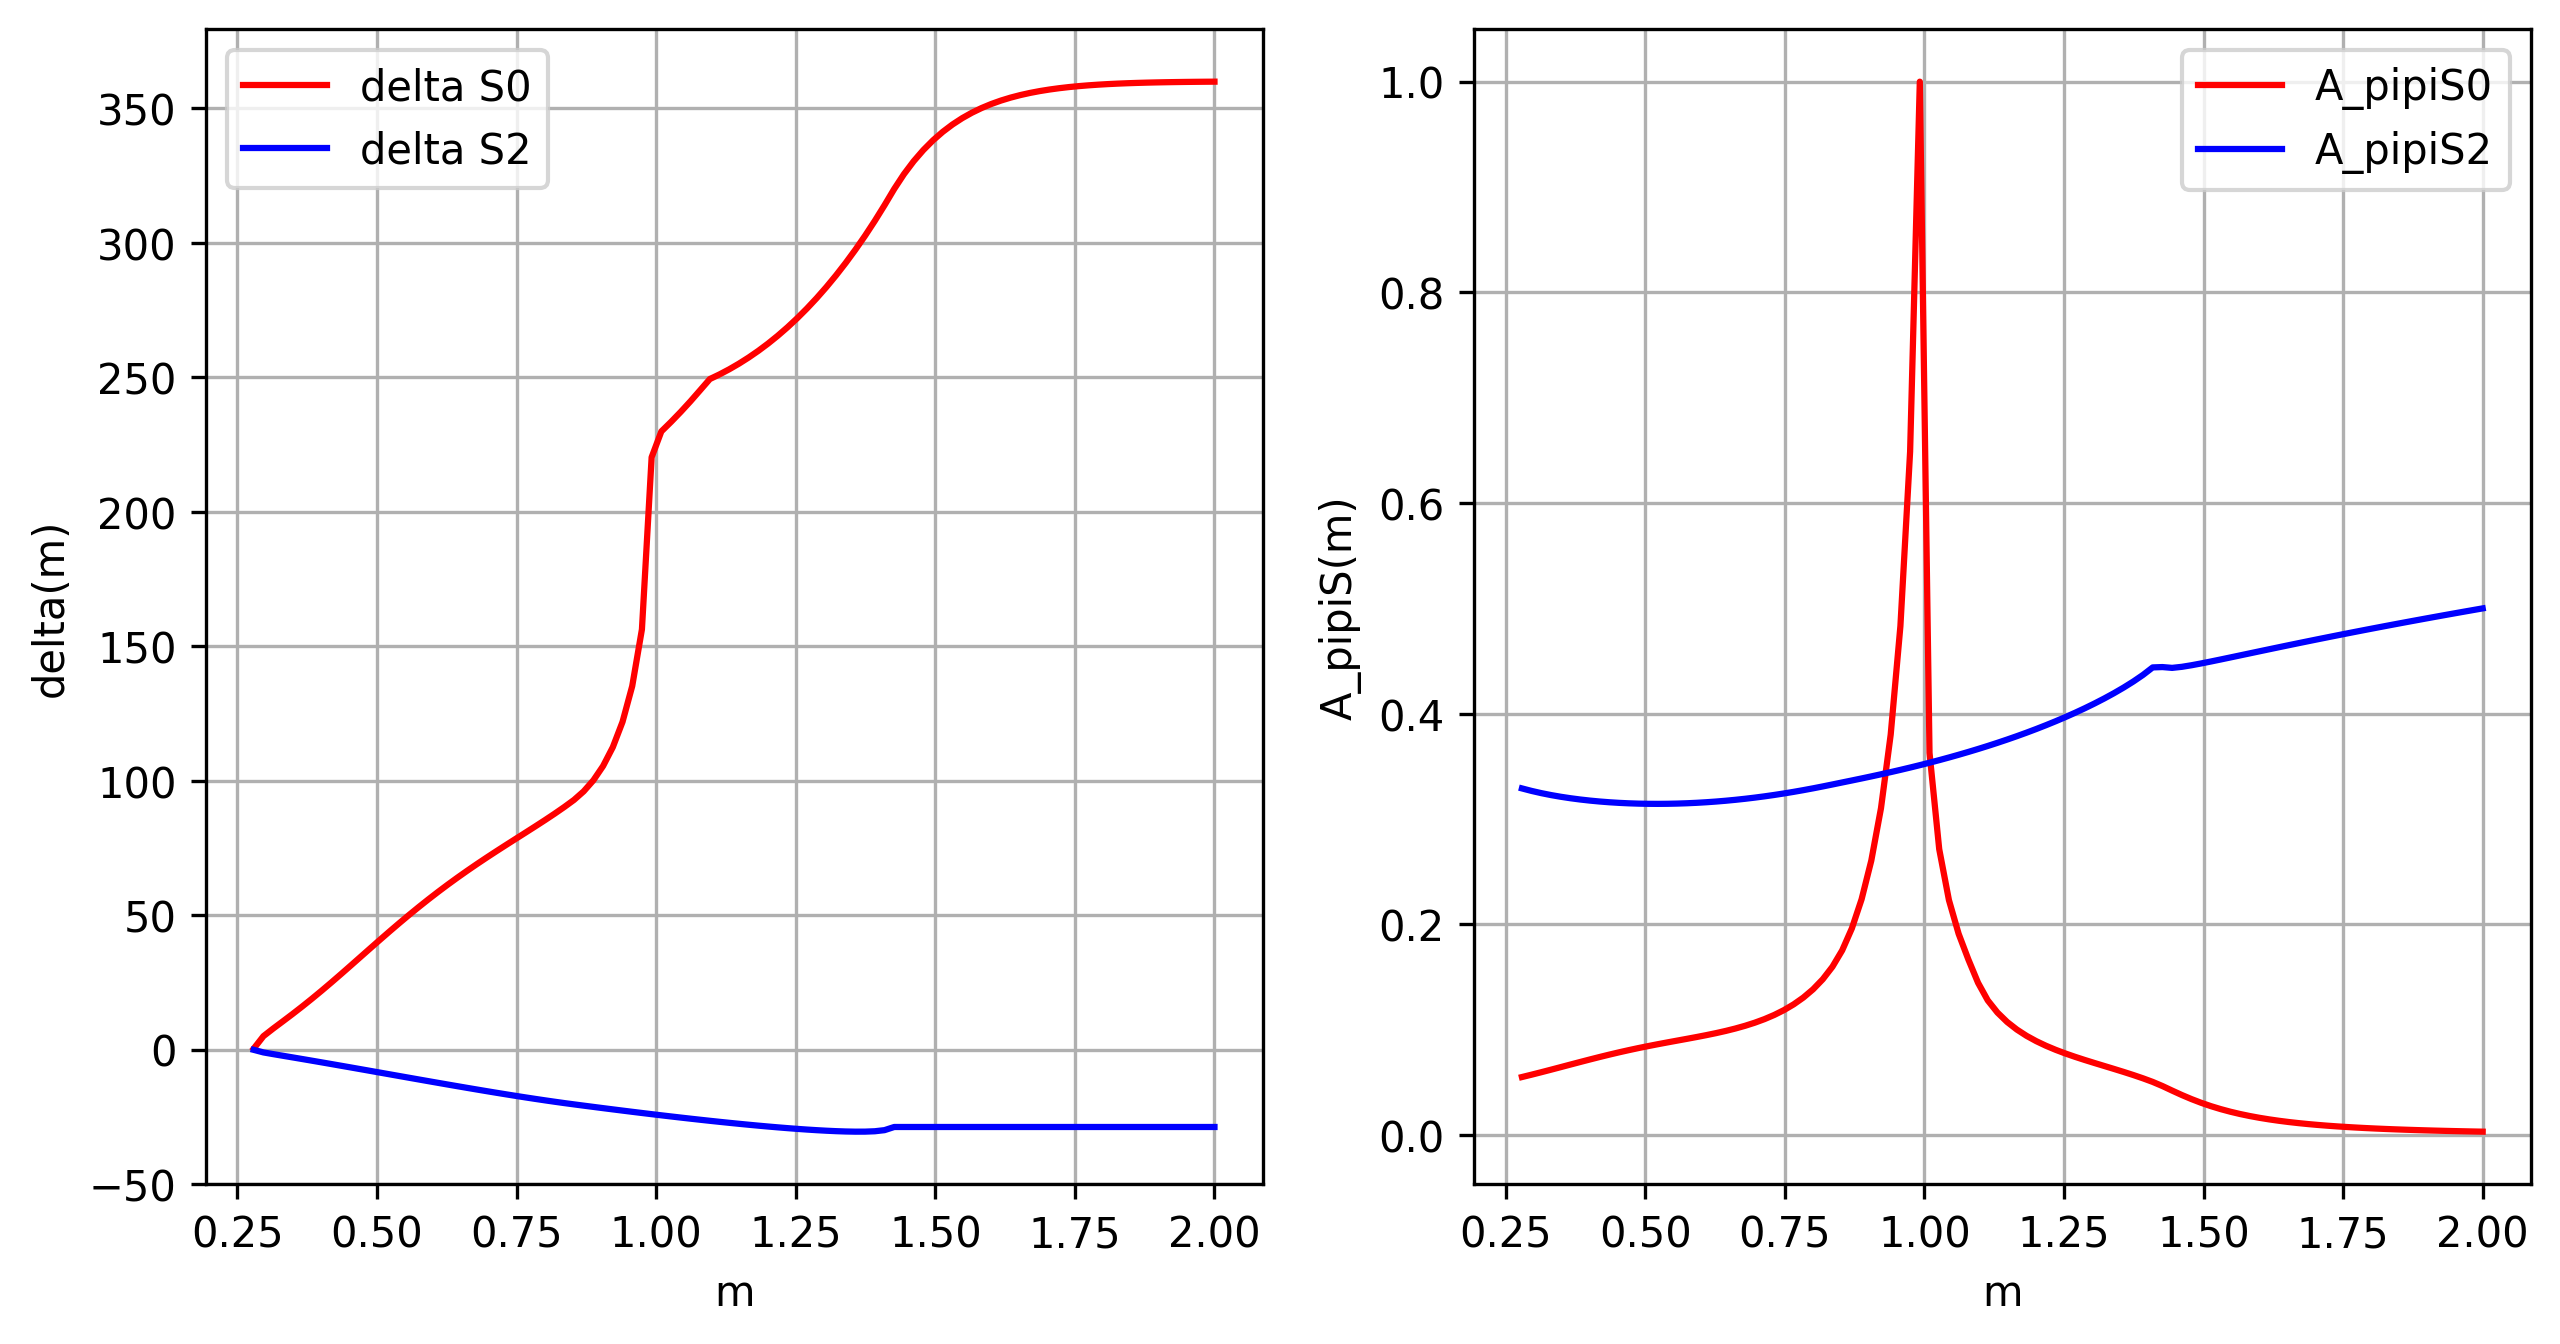
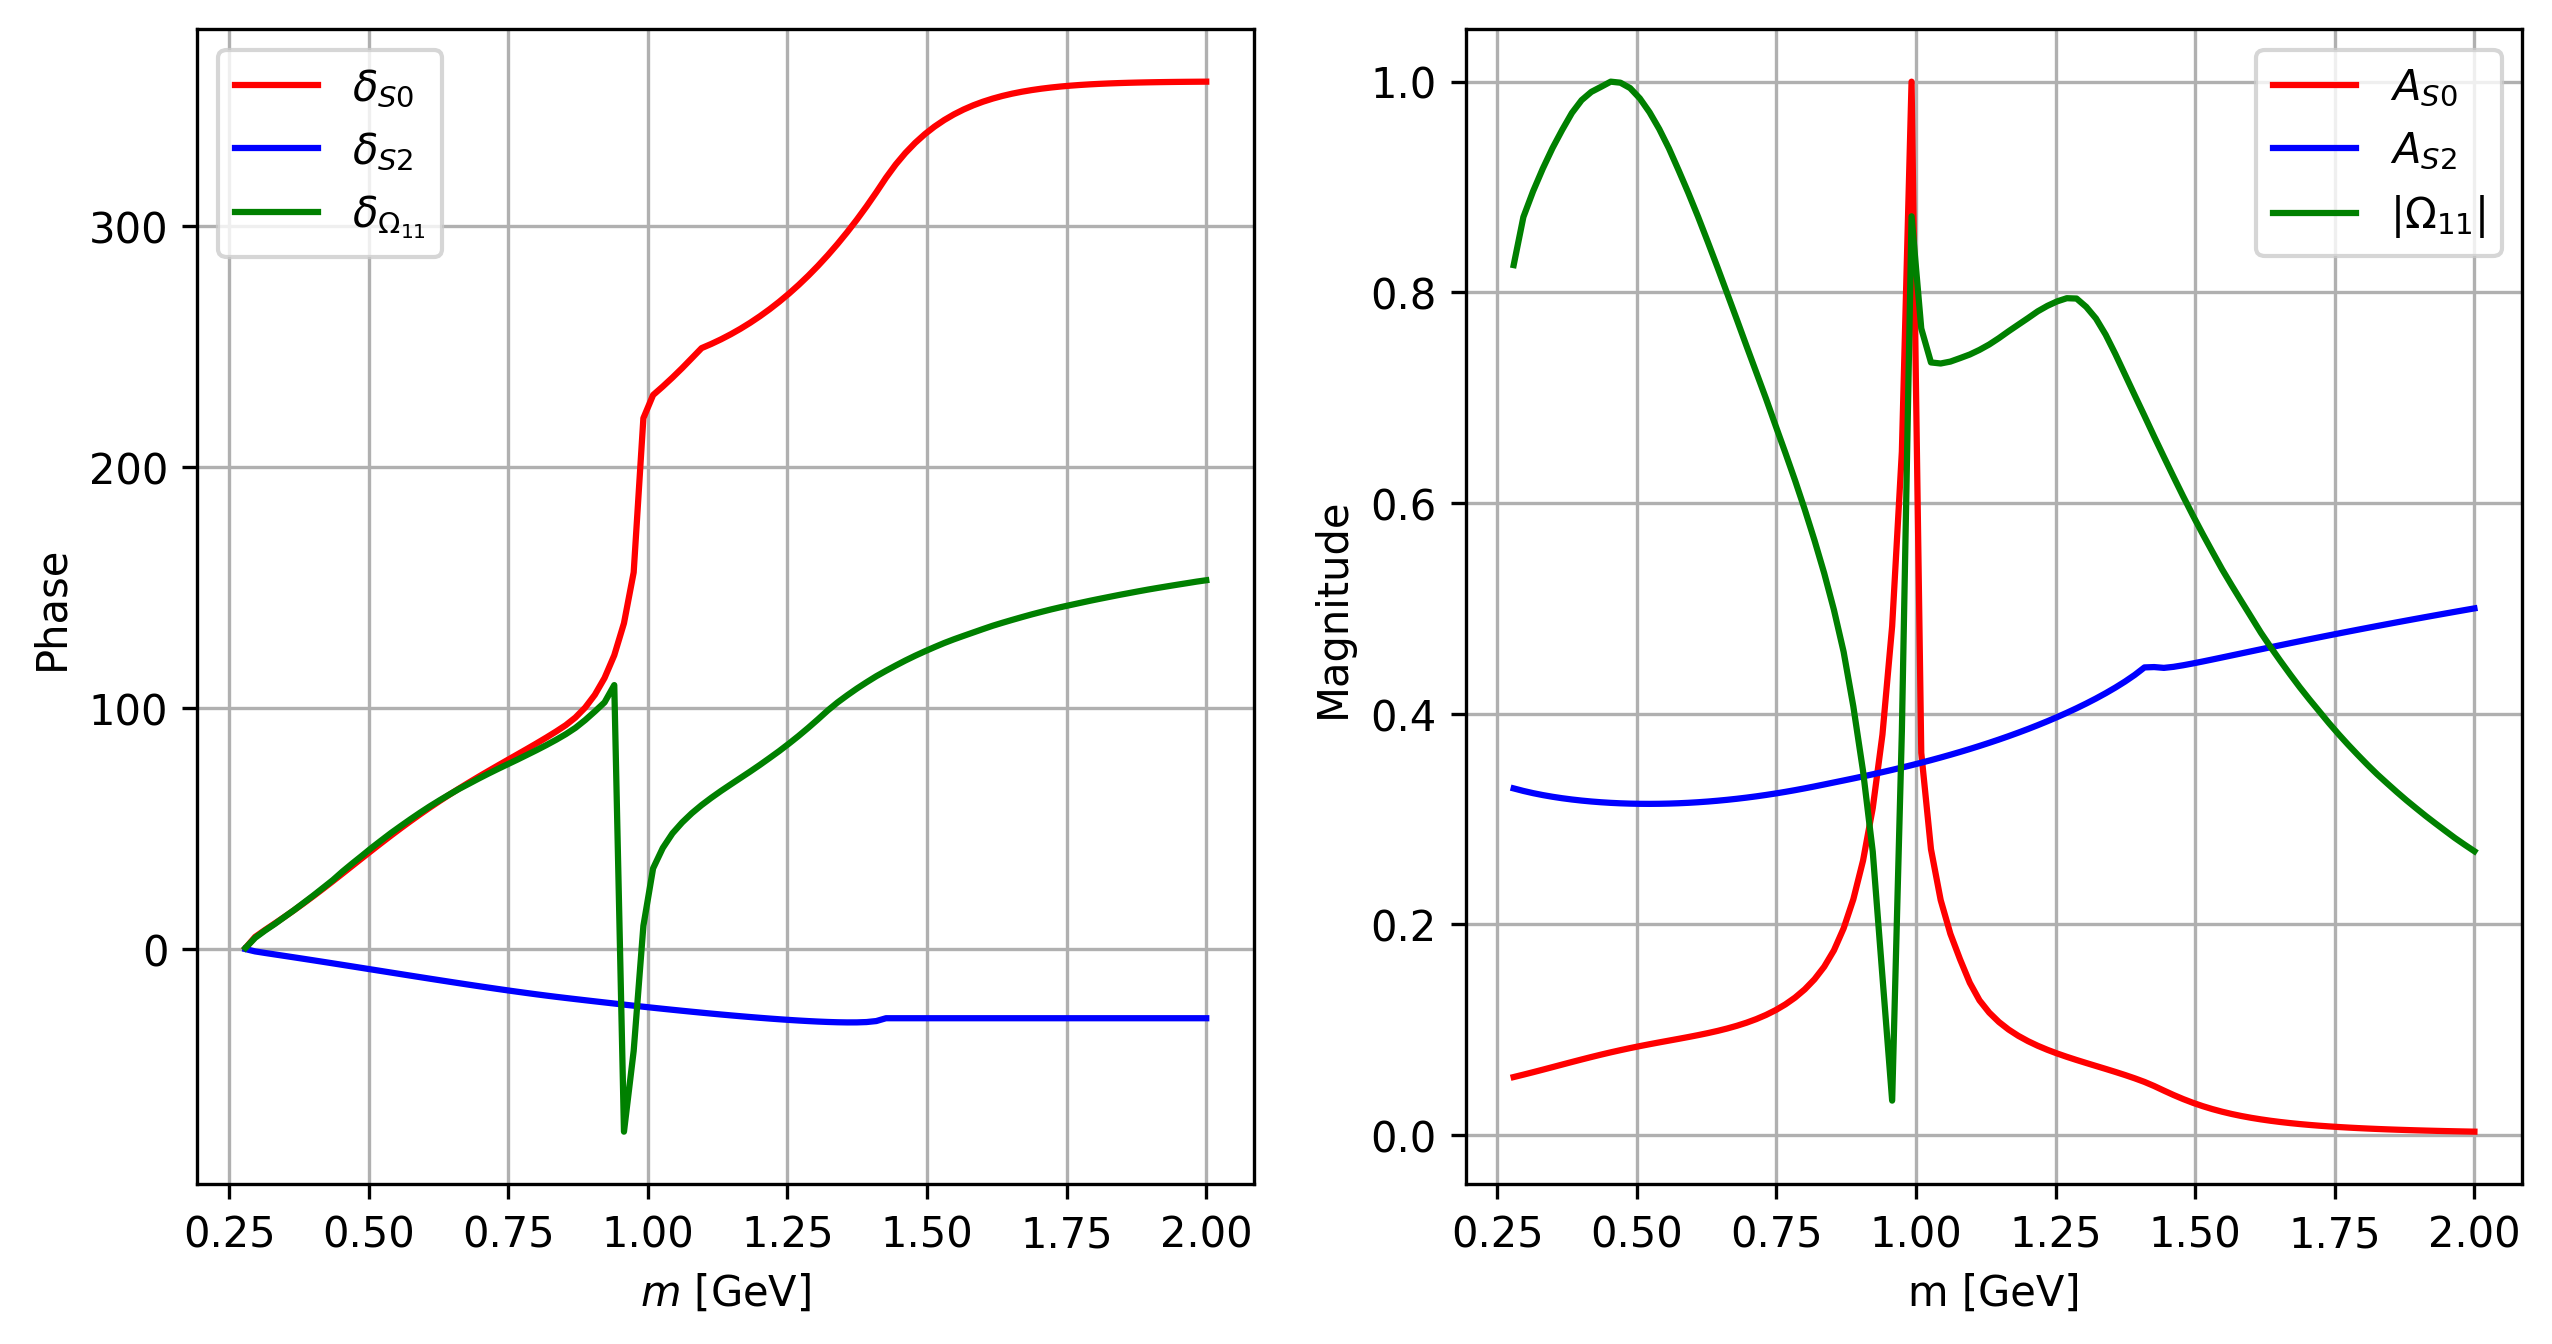
added pipi S-wave from uu

diff --git a/omnes.py b/omnes.py
@@ -118,18 +118,57 @@ def delta_S2(s):
     return delta2_S2(1.42**2)   
     #return delta4(s) 
 
+## u bar u S-wave, Omega_11 from https://inspirehep.net/files/598602a1c5ab52eb5bc93cc3e6a0785f
+import pandas as pd
+from scipy.interpolate import interp1d
+import cmath
+
+data = pd.read_csv('wpd_datasets.csv')
+print(data.head())
+
+omega_11_im_m = data['Im_m'].values
+omega_11_im = data['Im_val'].values
+omega_11_re_m = data['Re_m'].values
+omega_11_re = data['Re_val'].values
+print(omega_11_im_m)
+
+interpolatorRe = interp1d(omega_11_re_m, omega_11_re, kind='linear', fill_value="extrapolate")
+interpolatorIm = interp1d(omega_11_im_m, omega_11_im, kind='linear', fill_value="extrapolate")
+
+def omega_11(m):
+    re = interpolatorRe(m)
+    im = interpolatorIm(m)
+    return complex(re,im)
+
+## Plot Omega 11 input
+m_values = np.linspace(0, 2.6, 500)
+omega11_re_values = [omega_11(m).real for m in m_values]
+omega11_im_values = [omega_11(m).imag for m in m_values]
+
+plt.figure(figsize=(10, 5))
+plt.plot(m_values, omega11_re_values, label='Re $\Omega_{11}$', color='blue')
+plt.plot(m_values, omega11_im_values, label='Im $\Omega_{11}$', color='red')
+plt.xlabel('$m$ [GeV]')
+plt.ylabel('$\Omega_{11}$')
+plt.grid(True)
+plt.legend()
+plt.ylim(-1, 2)  
+plt.savefig('omnes_pipiSwave_omega11.png', dpi=300, bbox_inches='tight')
+plt.show()
+
 # Plot delta(s)
 m_values = np.linspace(2.001*m_pi, 2, 100)
-#m_values = np.linspace(2.5*m_pi, 2, 100)
 delta0_values = [delta(m**2) for m in m_values]
 delta0_S2_values = [delta_S2(m**2) for m in m_values]
+delta0_omega11_values = [cmath.phase(omega_11(m))*180/np.pi for m in m_values]
 
 plt.figure(figsize=(10, 5))
 plt.subplot(1, 2, 1)
-plt.plot(m_values, delta0_values, label='delta S0', color='red')
-plt.plot(m_values, delta0_S2_values, label='delta S2', color='blue')
-plt.xlabel('m')
-plt.ylabel('delta(m)')
+plt.plot(m_values, delta0_values, label='$\delta_{S0}$', color='red')
+plt.plot(m_values, delta0_S2_values, label='$\delta_{S2}$', color='blue')
+plt.plot(m_values, delta0_omega11_values, label='$\delta_{\Omega_{11}}$', color='green')
+plt.xlabel('$m$ [GeV]')
+plt.ylabel('Phase')
 plt.grid(True)
 plt.legend()
 #plt.show()
@@ -166,21 +205,26 @@ def A_pipiS2(s):
 # Plot A_pipiS
 A_pipiS_values = [A_pipiS(m**2) for m in m_values]
 A_pipiS2_values = [A_pipiS2(m**2) for m in m_values]
+A_pipiS_Omega11_values = [abs(omega_11(m)) for m in m_values]
 
 norm_A_pipiS = np.trapz(A_pipiS_values, m_values)
 norm_A_pipiS2 = np.trapz(A_pipiS2_values, m_values)
 #A_pipiS_values = A_pipiS_values /  norm_A_pipiS
 #A_pipiS2_values = A_pipiS2_values /norm_A_pipiS2
+
 A_pipiS_values = np.array(A_pipiS_values)
 A_pipiS2_values = np.array(A_pipiS2_values)
+A_pipiS_Omega11_values = np.array(A_pipiS_Omega11_values)
 A_pipiS_values = A_pipiS_values /  max(A_pipiS_values)
 A_pipiS2_values = A_pipiS2_values / max(A_pipiS2_values) * 0.5
+A_pipiS_Omega11_values = A_pipiS_Omega11_values / max(A_pipiS_Omega11_values)
 
 plt.subplot(1, 2, 2)
-plt.plot(m_values, A_pipiS_values, label='A_pipiS0', color='red')
-plt.plot(m_values, A_pipiS2_values, label='A_pipiS2', color='blue')
-plt.xlabel('m')
-plt.ylabel('A_pipiS(m)')
+plt.plot(m_values, A_pipiS_values, label='$A_{S0}$', color='red')
+plt.plot(m_values, A_pipiS2_values, label='$A_{S2}$', color='blue')
+plt.plot(m_values, A_pipiS_Omega11_values, label='$|\Omega_{11}|$', color='green')
+plt.xlabel('m [GeV]')
+plt.ylabel('Magnitude')
 plt.grid(True)
 plt.legend()
 #ymax = 1.2 * max(A_pipiS_values)

diff --git a/README.md b/README.md
@@ -4,5 +4,5 @@
 ```sh
 conda create --name AmAnHelpers_env python=3.8
 conda activate AmAnHelpers_env
-pip install numpy matplotlib mpmath scipy
+pip install numpy matplotlib mpmath scipy pandas
 ```
